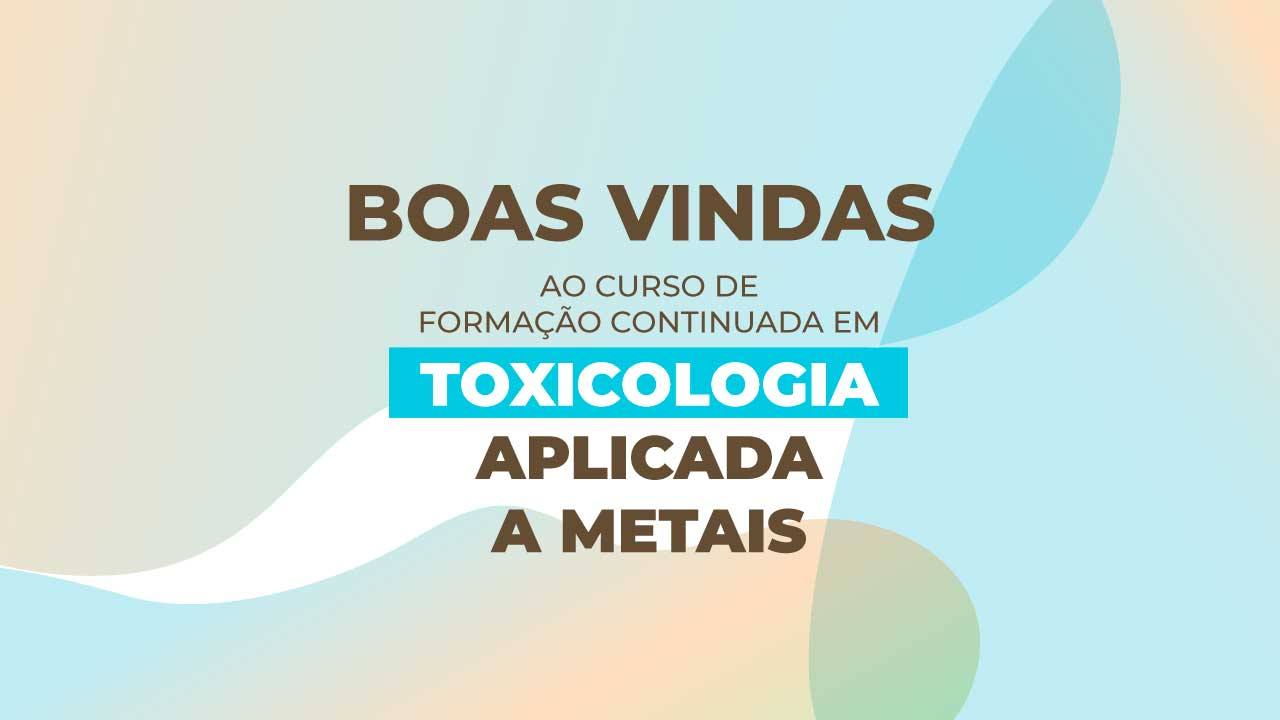
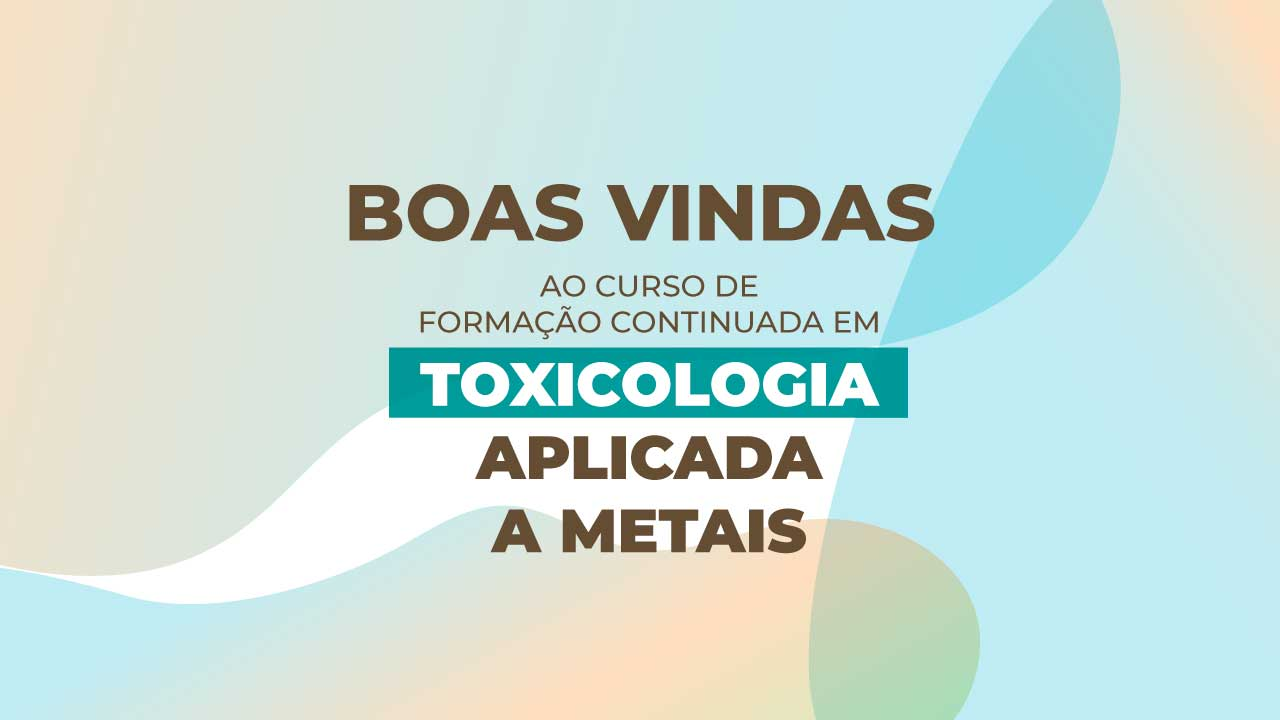
Atualizacao id visual verde

Changed region(s): [[0.2812, 0.4583, 0.7188, 0.5806]]

diff --git a/assets/css/sidebar.css b/assets/css/sidebar.css
@@ -7,12 +7,12 @@
 #sidebar {
 	--_sidebar-desktop-size: 380px;
 	--_sidebar-mobile-size: 100%;
-	--_sidebar-background-color: var(--fio-ref-color-secondary-70);
+	--_sidebar-background-color: var(--fio-ref-color-secondary-40);
 	--_sidebar-border: none;
 	--_sidebar-mobile-course-name-color: var(--fio-sys-color-neutral-white);
 
-	--_sidebar-module-btn--active: var(--fio-ref-color-secondary-40);
-	--_sidebar-module-btn--hover: var(--fio-ref-color-secondary-40);
+	--_sidebar-module-btn--active: var(--fio-ref-color-secondary-30);
+	--_sidebar-module-btn--hover: var(--fio-ref-color-secondary-30);
 	--_sidebar-module-btn-color: var(--fio-sys-color-neutral-white);
 
 	--_sidebar-lesson-btn--active: var(--fio-sys-color-accent-dark);
@@ -310,7 +310,7 @@
 		position: fixed;
 		left: 380px;
 		top: 100px;
-		background-color: var(--fio-ref-color-secondary-70);
+		background-color: var(--fio-ref-color-secondary-40);
 		border-top-right-radius: 12px;
 		border-bottom-right-radius: 12px;
 		border: none;

diff --git a/assets/css/style.css b/assets/css/style.css
@@ -184,13 +184,14 @@ section {
 
 #page-title .title {
 	text-align: left;
-	color: var(--fio-sys-color-primary-dark);
+	color: var(--fio-sys-color-primary-medium);
 	font-size: calc(var(--fio-sys-typography-head-lg-size) * 0.7);
 }
 
 #page-title .title .label {
 	font-family: var(--fio-sys-typography-label-family);
 	font-size: var(--fio-sys-typography-label-md-size);
+	color: var(--fio-sys-color-primary-dark);
 	line-height: var(--fio-sys-typography-label-height);
 	text-transform: var(--fio-sys-typography-label-transform);
 	letter-spacing: var(--fio-sys-typography-label-tracking);
@@ -215,7 +216,6 @@ section {
 
 	#page-title .title {
 		text-align: right;
-		
 		font-size: var(--fio-sys-typography-head-xl-size);
 		line-height: var(--fio-sys-typography-head-sm-line-height);
 	}

diff --git a/assets/css/-system.css b/assets/css/-system.css
@@ -16,7 +16,7 @@
 	--fio-sys-color-primary-background-light: var(--fio-ref-color-primary-99);
 
 	/* Accent - 30% layout */
-	--fio-sys-color-accent-light: var(--fio-ref-color-secondary-70);
+	--fio-sys-color-accent-light: var(--fio-ref-color-secondary-60);
 	--fio-sys-color-accent-light-contrast: var(--fio-ref-color-secondary-20);
 	--fio-sys-color-accent-medium: var(--fio-ref-color-secondary-40);
 	--fio-sys-color-accent-medium-contrast: var(--fio-ref-color-secondary-95);

diff --git a/assets/css/-reference.css b/assets/css/-reference.css
@@ -4,8 +4,8 @@
 	/* --- KEY COLORS - HSL format --- */
 
 	--fio-ref-color-primary: 28, 22%; /* hue, saturation% */
-	--fio-ref-color-secondary: 190, 100%;
-	--fio-ref-color-tertiary: 40, 32%;
+	--fio-ref-color-secondary: 179, 70%;
+	--fio-ref-color-tertiary: 36, 16%;
 	--fio-ref-color-neutral: 0, 6%;
 	--fio-ref-color-text: var(--fio-ref-color-neutral);
 	--fio-ref-color-success: 135, 60%;

diff --git a/assets/css/home.css b/assets/css/home.css
@@ -231,7 +231,7 @@ section {
 #course-program .card .card-header {
 	background: none;
 	border: none;
-	color: var(--fio-sys-color-primary-dark);
+	color: var(--fio-sys-color-primary-medium);
 	display: block;
 	font-family: var(--fio-sys-typography-head-family);
 	font-size: var(--fio-sys-typography-head-lg-size);

diff --git a/assets/css/typography-new.css b/assets/css/typography-new.css
@@ -157,7 +157,7 @@ h6,
 }
 
 p {
-  color: var(--fio-sys-color-neutral-extra-dark);
+  color: var(--fio-sys-color-primary-dark);
   font-family: var(--fio-sys-typography-family-primary-regular);
   font-size: var(--fio-sys-typography-size-0);
   font-weight: var(--fio-sys-typography-weight-medium);
